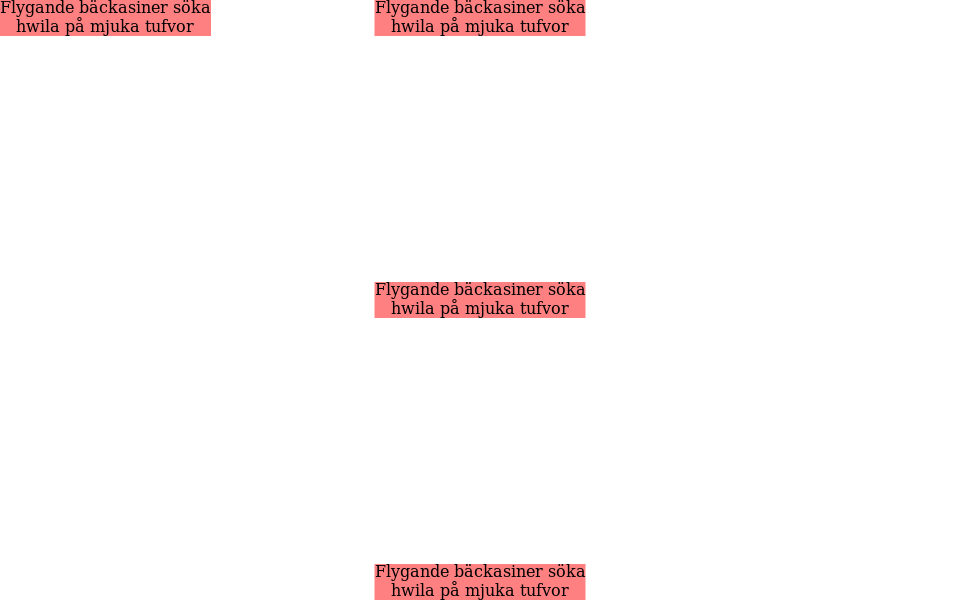
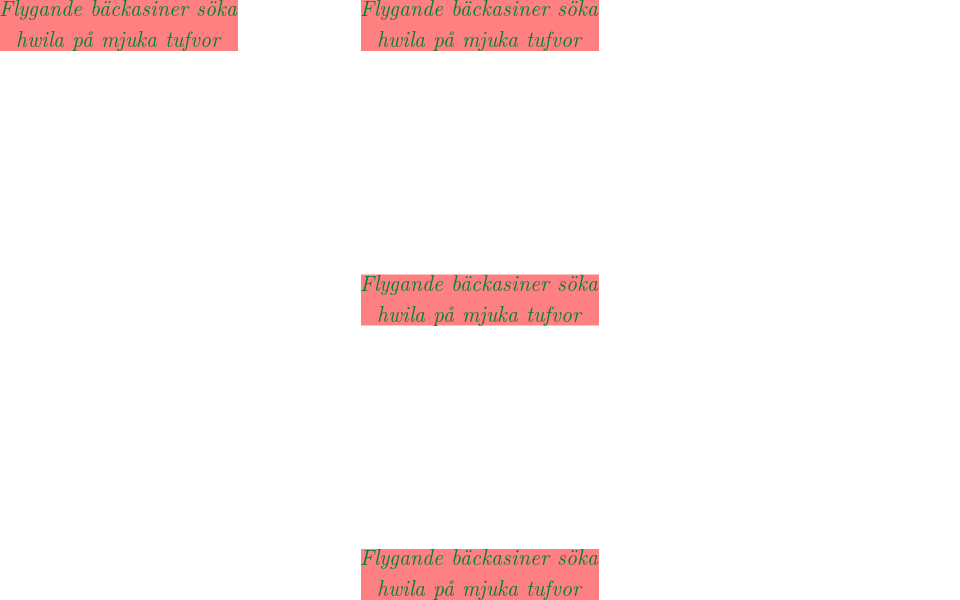
Render region

diff --git a/rectangle.hpp b/rectangle.hpp
@@ -3,44 +3,62 @@
 #ifndef PAGECOMPOSER_RECTANGLE_HPP
 #define PAGECOMPOSER_RECTANGLE_HPP
 
+#include "vec2.hpp"
+
 namespace PageComposer
 	{
 	class Rectangle
 		{
 		public:
-			Rectangle(float x, float y, float w, float h):m_data{x,y,w,h}
+			Rectangle(){}
+
+			Rectangle(Vec2 min,Vec2 size):m_min(min),m_size(size)
 				{}
 
-			float x() const noexcept
-				{return m_data[0];}
+			Rectangle(double x, double y, double w, double h):m_min{x,y},m_size{w,h}
+				{}
 
-			float& x() noexcept
-				{return m_data[0];}
+			double x() const noexcept
+				{return m_min.x();}
+
+			double& x() noexcept
+				{return m_min.x();}
+
+			double y() const noexcept
+				{return m_min.y();}
+
+			double& y() noexcept
+				{return m_min.y();}
+
+			Vec2 min() const noexcept
+				{return m_min;}
+
+			Vec2& min() noexcept
+				{return m_min;}
 
 
-			float y() const noexcept
-				{return m_data[1];}
 
-			float& y() noexcept
-				{return m_data[1];}
+			double width() const noexcept
+				{return m_size.x();}
 
+			double& width() noexcept
+				{return m_size.x();}
 
-			float width() const noexcept
-				{return m_data[2];}
+			double height() const noexcept
+				{return m_size.y();}
 
-			float& width() noexcept
-				{return m_data[2];}
+			double& height() noexcept
+				{return m_size.y();}
 
+			Vec2 size() const noexcept
+				{return m_size;}
 
-			float height() const noexcept
-				{return m_data[3];}
-
-			float& height() noexcept
-				{return m_data[3];}
+			Vec2& size() noexcept
+				{return m_size;}
 
 		private:
-			typedef float v4sf __attribute__ ((vector_size (16)));
-			v4sf m_data;
+			Vec2 m_min;
+			Vec2 m_size;
 		};
 	};
 

diff --git a/test.cpp b/test.cpp
@@ -14,12 +14,19 @@ int main()
 	PageComposer::RenderContext rc(surf);
 	PageComposer::TextRenderer tr(rc);
 
-	PageComposer::ParaStyle style_new;
-	style_new.color(PageComposer::Color{1,0.5,0.5,1})
+	PageComposer::ParaStyle style_para;
+	style_para.color(PageComposer::Color{1,0.5,0.5,1})
 		.alignment(PageComposer::ParaStyle::Alignment::CENTER);
+
+	PageComposer::TextStyle style_text;
+	style_text.size(16).family("Latin Modern Roman")
+		.style(PageComposer::TextStyle::FontStyle::ITALIC)
+		.color(PageComposer::Color{0,0.5,0.2,1});
 	
 	PageComposer::Paragraph foo(tr);
-	foo.style(style_new).text("Flygande bäckasiner söka hwila på mjuka tufvor")
+	foo.style(style_para)
+		.style(style_text)
+		.text("Flygande bäckasiner söka hwila på mjuka tufvor")
 		.positionAbsolute(PageComposer::Vec2{960/2,0})
 		.anchor(PageComposer::Vec2{0,-1})
 		.render();

diff --git a/surface.hpp b/surface.hpp
@@ -7,8 +7,10 @@
 #define PAGECOMPOSER_SURFACE_HPP
 
 #include "handle.hpp"
+#include "rectangle.hpp"
 #include <utility>
 #include <cstdint>
+#include <algorithm>
 
 namespace PageComposer
 	{
@@ -52,9 +54,25 @@ namespace PageComposer
 			void dirtySet() noexcept;
 
 			void save(const char* filename) const;
+
+			void renderRegionAdd(const Rectangle& rect)
+				{
+				auto size_new=emax(rect.size(),m_dirty_region.size());
+				auto min_new=emin(rect.min(),m_dirty_region.min());
+	
+				m_dirty_region.size()=size_new;	
+				m_dirty_region.min()=min_new;				
+				}
+
+			void renderRegionClear()
+				{
+				m_dirty_region.size()=Vec2{0,0};
+				m_dirty_region.min()=Vec2{double(width()),double(height())};
+				}
 	
 		private:
 			Handle<surface_t> m_handle;
+			Rectangle m_dirty_region;
 		};
 	};
 

diff --git a/vec2.hpp b/vec2.hpp
@@ -8,7 +8,12 @@ namespace PageComposer
 	class Vec2
 		{
 		public:
+			typedef double v2sd __attribute__ ((vector_size (16)));
+
 			Vec2() noexcept:m_data{0,0}
+				{}
+
+			Vec2(v2sd x) noexcept:m_data(x)
 				{}
 
 			Vec2(double x, double y):m_data{x,y}
@@ -51,8 +56,10 @@ namespace PageComposer
 				return *this;
 				}
 
+			v2sd data() const noexcept
+				{return m_data;}
+
 		private:
-			typedef double v2sd __attribute__ ((vector_size (16)));
 			v2sd m_data;
 		};
 
@@ -67,6 +74,13 @@ namespace PageComposer
 
 	inline Vec2 operator*(double c,Vec2 b) noexcept
 		{return b*=c;}
+
+	inline Vec2 emin(Vec2 a,Vec2 b) noexcept
+		{return a.data()<b.data()?a.data():b.data();}
+
+	inline Vec2 emax(Vec2 a,Vec2 b) noexcept
+		{return b.data()<a.data()?a.data():b.data();}
+
 	};
 
 #endif

diff --git a/paragraph.cpp b/paragraph.cpp
@@ -165,6 +165,7 @@ void Paragraph::styleApply() const noexcept
 
 	auto para_size_dim=m_p_style.sizeDimension();
 	auto l=const_cast<PangoLayout*>(layout(m_layout));
+	pango_layout_set_font_description(l,f);
 	if(para_size_dim==ParaStyle::SizeDimension::HEIGHT)
 		{pango_layout_set_height(l,size_box(m_p_style,m_t_style,width,height)*PANGO_SCALE);}
 	else
@@ -204,5 +205,6 @@ void Paragraph::render_impl() const noexcept
 	pango_cairo_show_layout(rc_handle
 		,const_cast<PangoLayout*>(layout(m_layout)));
 
+	r_rc->surface().renderRegionAdd(Rectangle{pos_rect,target_rect.size()});
 	m_flags&=~CONTENT_DIRTY;
 	}

diff --git a/surface.cpp b/surface.cpp
@@ -9,7 +9,7 @@ using namespace PageComposer;
 
 Surface::Surface(int width,int height):
 m_handle( cairo_image_surface_create(CAIRO_FORMAT_ARGB32,width,height) )
-	{}
+	{renderRegionClear();}
 
 Surface::~Surface()
 	{cairo_surface_destroy(cairosurface(m_handle));}

diff --git a/rendercontext.hpp b/rendercontext.hpp
@@ -42,6 +42,9 @@ namespace PageComposer
 
 			const Surface& surface() const noexcept
 				{return *r_surface;}
+
+			Surface& surface() noexcept
+				{return *r_surface;}
 	
 		private:
 			Handle<rc_t> m_handle;

diff --git a/paragraph.hpp b/paragraph.hpp
@@ -6,7 +6,6 @@
 #ifndef PAGECOMPOSER_PARAGRAPH_HPP
 #define PAGECOMPOSER_PARAGRAPH_HPP
 
-#include "handle.hpp"
 #include "rectangle.hpp"
 #include "parastyle.hpp"
 #include "textstyle.hpp"
